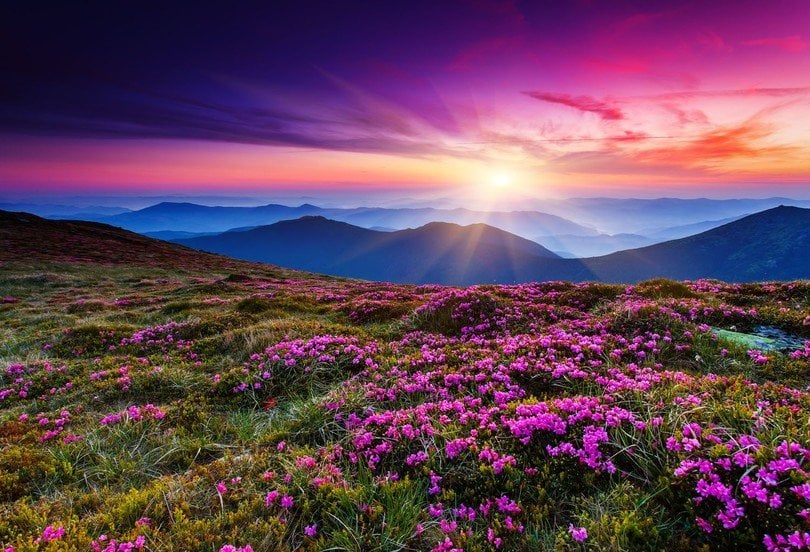
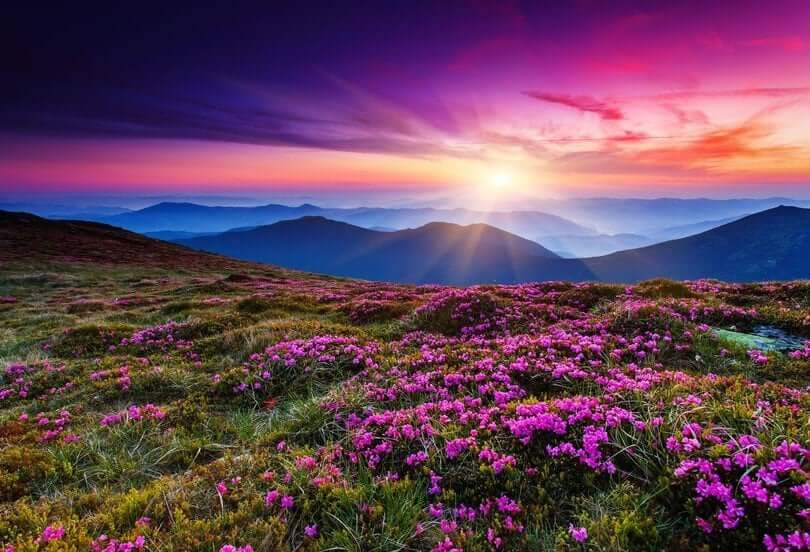
fixed: resize image and rewrite animation in test block

diff --git a/client/src/components/index.js b/client/src/components/index.js
@@ -3,5 +3,7 @@ import ErrorBoundary from './ErrorBoundary/ErrorBoundary';
 import TourAccordion from './TourAccordion/TourAccordion';
 import TourInfoDialog from './TourInfoDialog/TourInfoDialog';
 import TourReasonToChoose from './TourReasonToChoose/TourReasonToChoose';
+// eslint-disable-next-line import/no-unresolved
+import  AboutUkraine from './AboutUkraine/AboutUkraine'
 
-export { TourAccordion, TourInfoDialog, TourReasonToChoose,ImageCarousel, ErrorBoundary,  };
+export { TourAccordion, TourInfoDialog, TourReasonToChoose,ImageCarousel, ErrorBoundary, AboutUkraine };

diff --git a/client/src/components/AboutUkraine/AboutUkraine.module.scss b/client/src/components/AboutUkraine/AboutUkraine.module.scss
@@ -8,20 +8,6 @@
   -ms-animation: fadeIn 6s;
 }
 
-.info:hover {
-  background-color: #0499DD;
-  transition: 2s;
-  box-shadow:
-    1px 1px #EDEDED,
-    2px 2px #EDEDED,
-    3px 3px #EDEDED,
-    4px 4px #EDEDED,
-    5px 5px #EDEDED,
-    6px 6px #EDEDED,
-    7px 7px #EDEDED;
-  -webkit-transform: translateX(-60px);
-  transform: translateX(-60px);
-}
 
 .info:hover .what_is_ukraine {
   color: #EDEDED;
@@ -33,6 +19,10 @@
   height: 700px;
   border-radius: 20px;
   object-fit: cover;
+}
+
+.info{
+  transition: 2s;
 }
 
 .info {

diff --git a/client/src/pages/HomePage/HomePage.js b/client/src/pages/HomePage/HomePage.js
@@ -1,8 +1,9 @@
 import React from 'react';
 import { Button, Container, Typography, Box, styled } from '@mui/material';
 import ArrowRightAltIcon from '@mui/icons-material/ArrowRightAlt';
-import { ImageCarousel } from '../../components';
-import AboutUkraine from '../../components/AboutUkraine/AboutUkraine'
+import { AboutUkraine, ImageCarousel, } from '../../components';
+
+
 
 // eslint-disable-next-line react/jsx-props-no-spreading
 const TravelText = styled((props) => <Typography variant="h1" {...props} />)(({ theme }) => ({

diff --git a/client/src/pages/index.js b/client/src/pages/index.js
@@ -3,5 +3,6 @@ import HomePage from './HomePage/HomePage';
 import CartPage from './CartPage/CartPage';
 import CataloguePage from './CataloguePage/CataloguePage';
 import ErrorPage from './ErrorPage/ErrorPage';
+import AboutUkraine from '../components/AboutUkraine/AboutUkraine';
 
-export { TourPage, HomePage, CartPage, CataloguePage, ErrorPage };
+export { TourPage, HomePage, CartPage, CataloguePage, ErrorPage, AboutUkraine };
